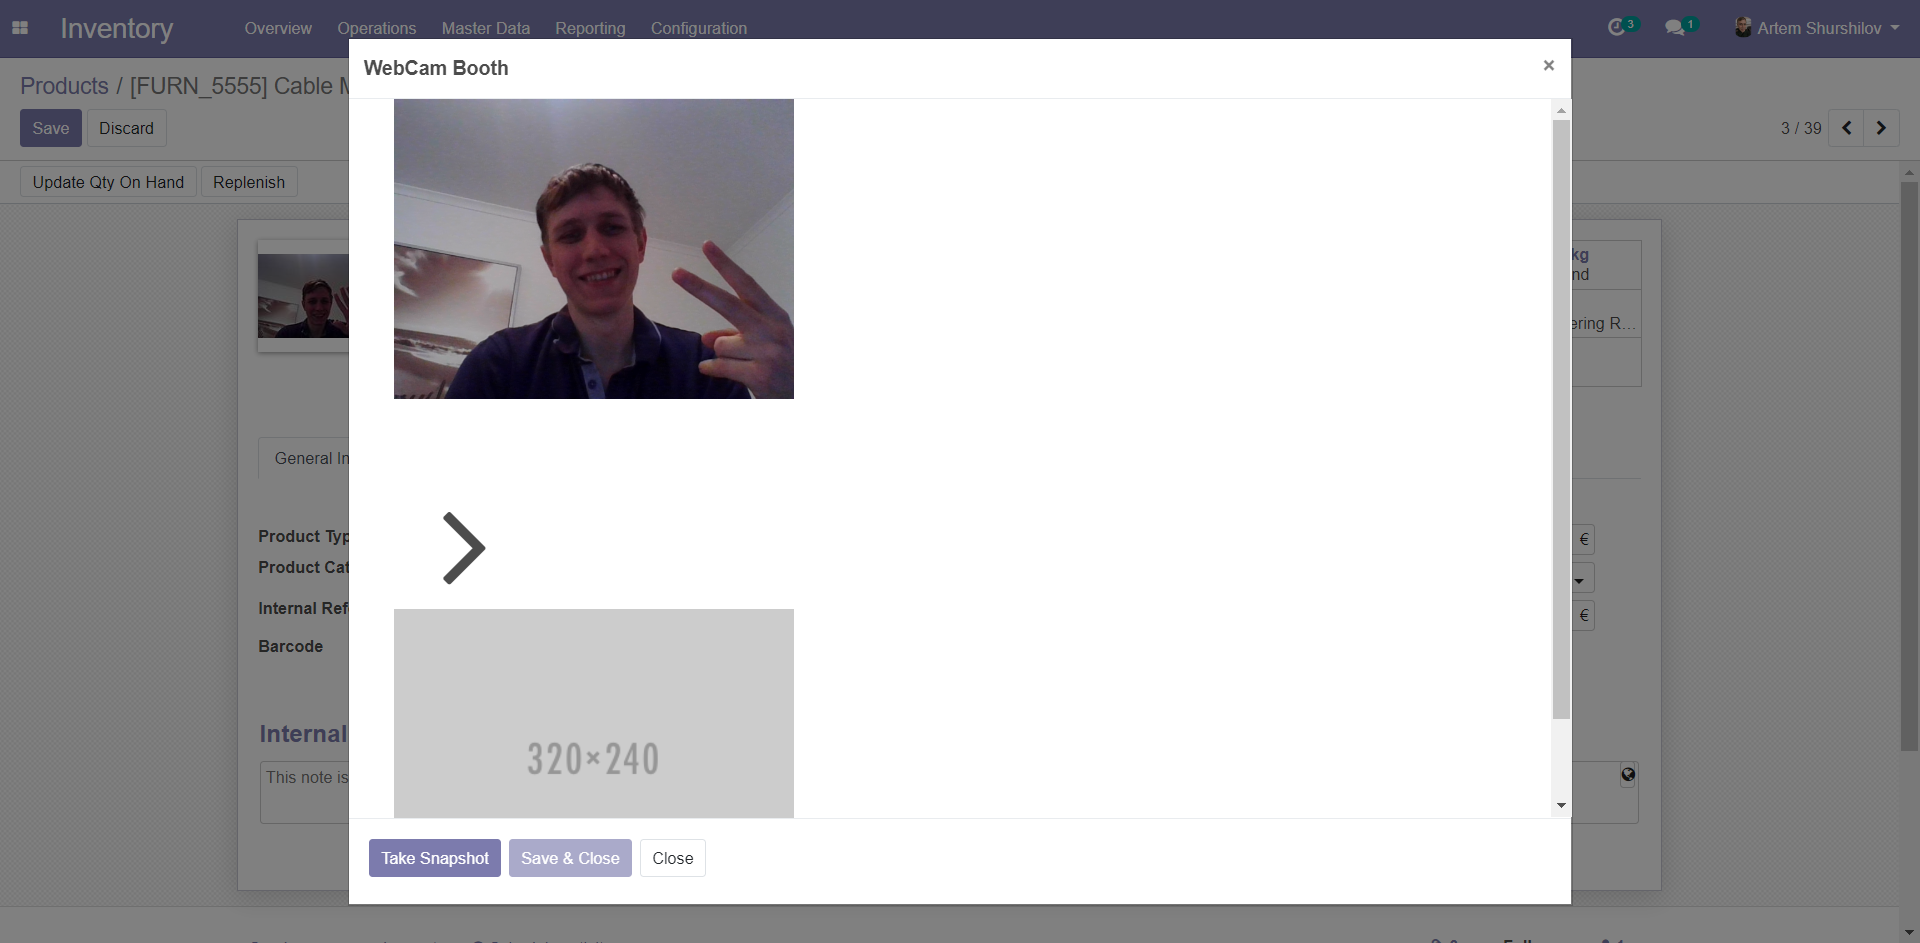
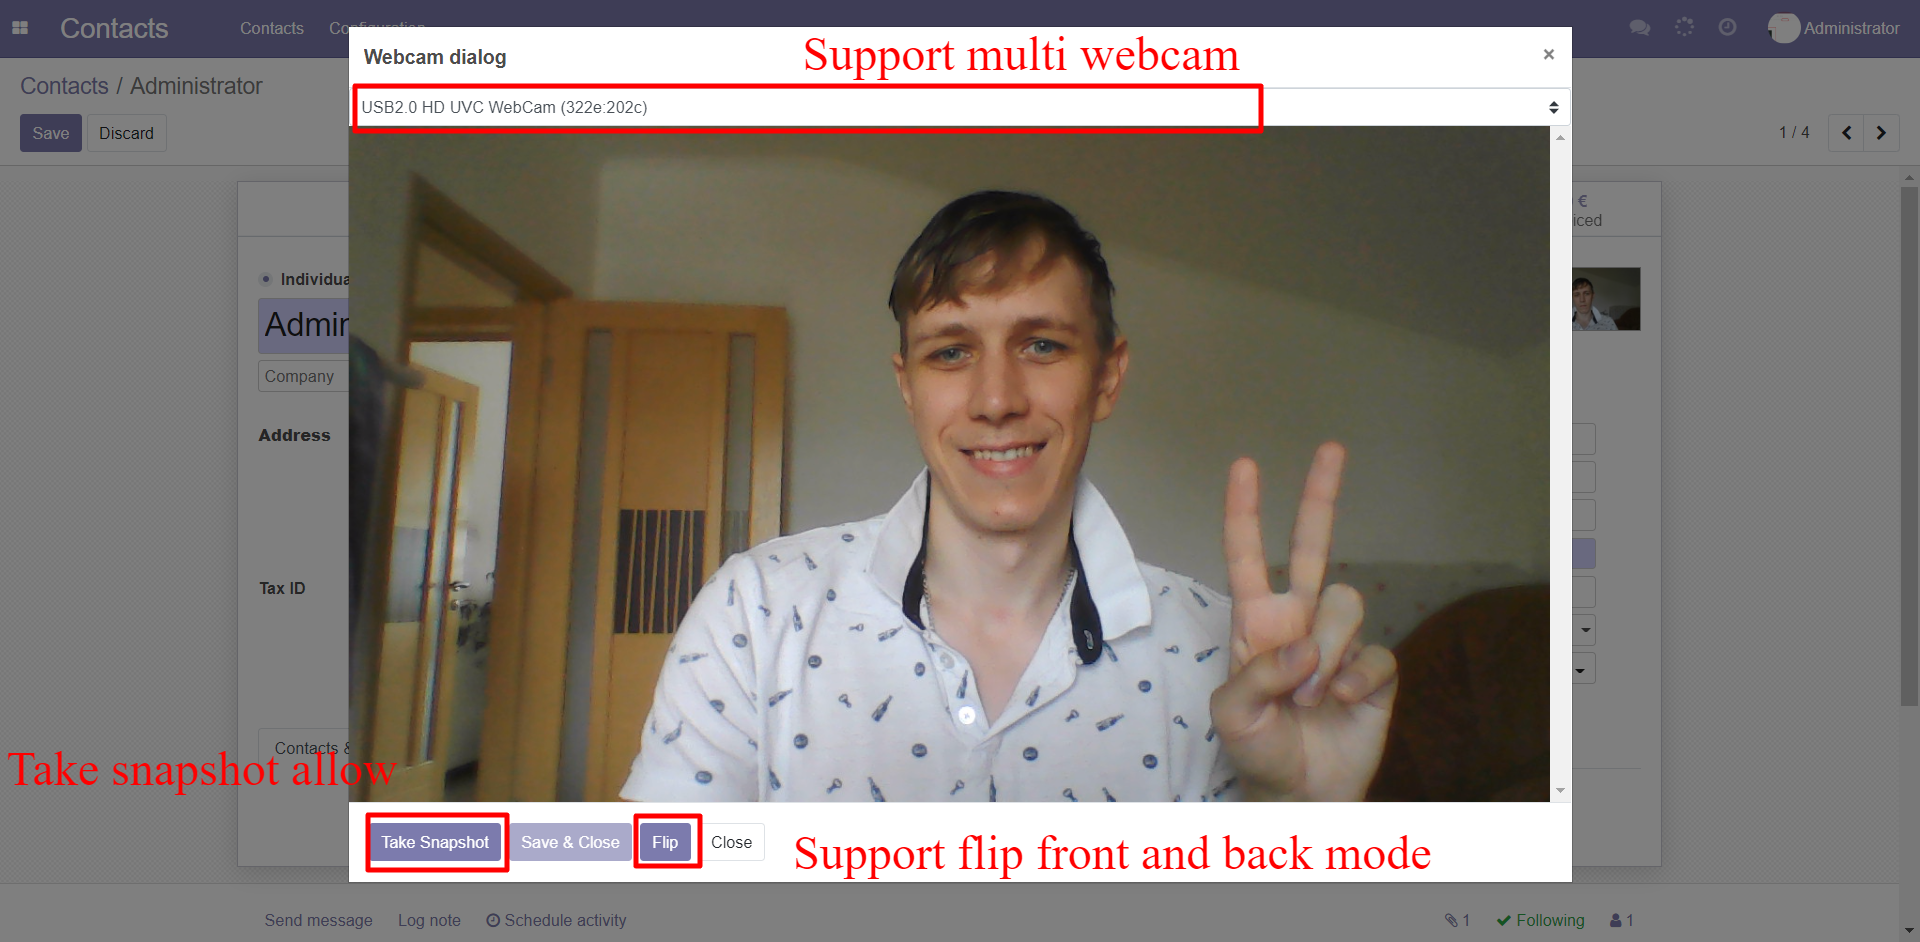
[ADD] webcam multi cameras and flip mode

diff --git a/web_image_webcam/static/src/js/webcam_widget_new.js b/web_image_webcam/static/src/js/webcam_widget_new.js
@@ -1,0 +1,177 @@
+/*
+    Copyright 2019-2022 Shurshilov Artem <shurshilov.a@yandex.ru>
+    License LGPL-3.0 or later (http://www.gnu.org/licenses/lgpl).
+*/
+odoo.define('web_image_webcam.webcam_widget', function (require) {
+    "use strict";
+
+    var core = require('web.core');
+    var Dialog = require('web.Dialog');
+    var base_f = require('web.basic_fields');
+    var imageWidget = base_f.FieldBinaryImage;
+    var _t = core._t;
+    var QWeb = core.qweb;
+
+    var WebcamDialogNew = Dialog.extend({
+        template: 'WebcamDialogNew',
+
+        handleStream: async function (stream) {
+            let def = $.Deferred();
+            const video = this.$el.find('video')[0];
+
+            // отображаем видео в диалоге
+            video.srcObject = stream;
+
+            video.addEventListener("canplay", () => {
+                video.play();
+            });
+
+            video.addEventListener("loadedmetadata", () => {
+                this.streamStarted = true;
+                def.resolve();
+            }, false);
+
+            return def
+        },
+
+        stop_video: function () {
+            // останавливае видео поток
+            this.streamStarted = false;
+            this.$el.find('video')[0].srcObject.getTracks().forEach((track) => {
+                track.stop();
+            });
+        },
+
+        take_snapshot: function(video) {
+            var canvas = document.createElement("canvas");
+            canvas.width = video.videoWidth;
+            canvas.height = video.videoHeight;
+            var canvasContext = canvas.getContext("2d");
+            canvasContext.drawImage(video, 0, 0);
+            return canvas.toDataURL('image/jpeg');
+        },
+
+        start_video: async function (device) {
+            try {
+                let config = {
+                    width: { min: 640, ideal: 1280 },
+                    height: { min: 480, ideal: 720 },
+                    facingMode: this.shouldFaceUser ? 'user' : 'environment',
+                }
+                if (device)
+                    config.deviceId = { exact: device }
+
+                const videoStream = await navigator.mediaDevices.getUserMedia({
+                    video: config
+                })
+                await this.handleStream(videoStream)
+            } catch (e) {
+                console.error('*** getUserMedia', e)
+            } finally {
+            }
+        },
+
+        init: function (parent, options) {
+            options = options || {};
+            options.fullscreen = true;
+            options.dialogClass = options.dialogClass || '' + ' o_act_window';
+            options.size = 'large';
+            options.title = _t("Webcam dialog");
+            options.buttons = [
+                {
+                    text: _t("Take Snapshot"), classes: 'btn-primary take_snap_btn',
+                    click: () => {
+                        const video = this.$el.find('video')[0];
+                        this.img_data = this.take_snapshot(video)
+                        // Display Snap besides Live WebCam Preview
+                        this.$("#webcam_result").html('<img src="' + this.img_data + '"/>');
+
+                        // Remove "disabled" attr from "Save & Close" button
+                        $('.save_close_btn').removeClass('disabled');
+                    }
+                },
+                {
+                    text: _t("Save & Close"), classes: 'btn-primary disabled save_close_btn', close: true,
+                    click: () => {
+                        var img_data_base64 = this.img_data.split(',')[1];
+                        // From the above info, we doing the opposite stuff to find the approx size of Image in bytes.
+                        var approx_img_size = 3 * (img_data_base64.length / 4)  // like... "3[n/4]"
+
+                        // Upload image in Binary Field
+                        this.parent.on_file_uploaded(approx_img_size, "web-cam-preview.jpeg", "image/jpeg", img_data_base64);
+                    }
+                },
+                {
+                    text: _t("Flip"), classes: 'btn-primary flip_btn',
+                    click: () => {
+                        this.flip()
+                    }
+                },
+                {
+                    text: _t("Close"), close: true
+                }
+            ]
+            this.parent = parent;
+            this._super(parent, options);
+        },
+
+        start: function (device = null) {
+            return this._super.apply(this, arguments).then(async () => {
+                const cameraOptions = this.$('.custom-select');
+                // добавляем обработчик смены камеры
+                cameraOptions.empty().off().on('change', (e) => {
+                    this.device = $(e.target).val();
+                    this.restart(this.device)
+                });
+
+                // добавляем все доступные камеры в селекшен
+                const devices = await navigator.mediaDevices.enumerateDevices();
+                const videoDevices = devices.filter(device => device.kind === 'videoinput');
+                videoDevices.map(videoDevice => {
+                    var opt = document.createElement('option');
+                    opt.value = videoDevice.deviceId;
+                    opt.innerHTML = videoDevice.label;
+                    cameraOptions.append(opt);
+                    return opt;
+                });
+
+                // устанавливаем камеру если уже выбрали
+                if (device)
+                    cameraOptions.val(device);
+
+                // запрашиваем разрешение на доступ к поточному видео камеры
+                // и запускаем видео с камеры
+                await this.start_video(device);
+
+            });
+        },
+
+        flip: function () {
+            this.stop_video();
+            this.shouldFaceUser = !this.shouldFaceUser;
+            this.start(this.device);
+        },
+
+        restart: function (device) {
+            this.stop_video();
+            this.start(device)
+        },
+
+        destroy: function () {
+            this.stop_video();
+            this._super.apply(this, arguments);
+        },
+
+    })
+
+    imageWidget.include({
+        _render: async function () {
+            this._super.apply(this, arguments);
+            this.$el.find('.o_form_binary_file_web_cam').off().on('click', () => {
+                // Init Webcam
+                new WebcamDialogNew(this).open();
+            });
+        },
+    });
+
+});

diff --git a/web_image_webcam/static/src/js/webcam_widget.js b/web_image_webcam/static/src/js/webcam_widget.js
@@ -1,6 +1,6 @@
 /*
     Copyright 2016 Siddharth Bhalgami <siddharth.bhalgami@techreceptives.com>
-    Copyright 2019 Shurshilov Artem <shurshilov.a@yandex.ru>
+    Copyright 2019-2022 Shurshilov Artem <shurshilov.a@yandex.ru>
     License LGPL-3.0 or later (http://www.gnu.org/licenses/lgpl).
 */
 odoo.define('web_image_webcam.webcam_widget', function (require) {
@@ -15,7 +15,7 @@ odoo.define('web_image_webcam.webcam_widget', function (require) {
 
     imageWidget.include({
 
-        _render: function () {
+        _render: async function () {
             this._super();
 
             var self = this,
@@ -24,21 +24,10 @@ odoo.define('web_image_webcam.webcam_widget', function (require) {
 
             // ::webcamjs:: < https://github.com/jhuckaby/webcamjs >
             // Webcam: Set Custom Parameters
-            Webcam.set({
-                width: 320,
-                height: 240,
-                dest_width: 320,
-                dest_height: 240,
-                image_format: 'jpeg',
-                jpeg_quality: 90,
-                force_flash: false,
-                fps: 45,
-                swfURL: '/web_image_webcam/static/src/js/webcam.swf',
-                //force_flash: true,
-            });
+            //let stream = await navigator.mediaDevices.getUserMedia({video: true});
+
 
             self.$el.find('.o_form_binary_file_web_cam').removeClass('col-md-offset-5');
-
             self.$el.find('.o_form_binary_file_web_cam').off().on('click', function () {
                 // Init Webcam
                 new Dialog(self, {
@@ -88,8 +77,18 @@ odoo.define('web_image_webcam.webcam_widget', function (require) {
                         }
                     ]
                 }).open();
-                // console.log(WebCamDialog);
-                // console.log(WebCamDialog.find('#live_webcam'));
+                Webcam.set({
+                    width: 640,
+                    height: 480,
+                    // dest_width: width,
+                    // dest_height: height,
+                    image_format: 'jpeg',
+                    jpeg_quality: 100,
+                    force_flash: false,
+                    fps: 45,
+                    swfURL: '/web_image_webcam/static/src/js/webcam.swf',
+                    //force_flash: true,
+                });
                 Webcam.attach(WebCamDialog.find('#live_webcam')[0]);
 
                 // At time of Init "Save & Close" button is disabled
@@ -104,6 +103,7 @@ odoo.define('web_image_webcam.webcam_widget', function (require) {
     Dialog.include({
         destroy: function () {
             // Shut Down the Live Camera Preview | Reset the System
+            Webcam.off('live');
             Webcam.reset();
             this._super.apply(this, arguments);
         },

diff --git a/web_image_webcam/static/src/css/web_widget_image_webcam.css b/web_image_webcam/static/src/css/web_widget_image_webcam.css
@@ -14,13 +14,13 @@
 }
 
 #webcam_result img {
-    max-width: 320px;
-    max-height: 240px;
+    max-width: 640px;
+    max-height: 480px;
 }
 
 #live_webcam {
-    width: 320px;
-    height: 240px;
+    width: 100%;
+    height: 100%;
 }
 
 .direction_icon {

diff --git a/web_image_webcam/__manifest__.py b/web_image_webcam/__manifest__.py
@@ -1,6 +1,5 @@
 # -*- coding: utf-8 -*-
-# Copyright 2016 Siddharth Bhalgami <siddharth.bhalgami@techreceptives.com>
-# Copyright 2019-2022 EURO ODOO, EURO ODOO, Shurshilov Artem <shurshilov.a@yandex.ru>
+# Copyright 2019-2022 Shurshilov Artem <shurshilov.a@yandex.ru>
 # License LGPL-3.0 or later (http://www.gnu.org/licenses/lgpl).
 {
     "name": "Web Widget - Image WebCam",
@@ -8,16 +7,16 @@
     [TAGS] web camera web foto web photo web images camera 
     image snapshot web snapshot webcam snapshot picture web contact
     image web product image online mobile web image produt mobile""",
-    "version": "13.0.2.0.0",
+    "version": "14.0.0.0",
     "category": "web",
     "website": "https://www.eurodoo.com",
     "author": "Tech Receptives, "
               "Odoo Community Association (OCA), "
               "Kaushal Prajapati, "
-              "EURO ODOO, EURO ODOO, Shurshilov Artem",
+              "Shurshilov Artem",
     "license": "LGPL-3",
     "price": 19.00,
-    'images':[
+    'images': [
             'static/description/field.png',
             'static/description/choose.png',
     ],
@@ -31,5 +30,6 @@
     "qweb": [
         "static/src/xml/web_widget_image_webcam.xml",
     ],
+
     "installable": True,
 }
